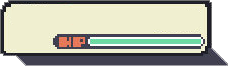
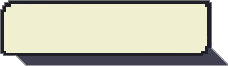
Se agrega barra de salud dinamica para Usuario

Changed region(s): [[0.2149, 0.5152, 0.9211, 0.7576], [0.7061, 0.4545, 0.7368, 0.4848]]

diff --git a/js/mainBattle.js b/js/mainBattle.js
@@ -18,6 +18,15 @@ const containerInfoEnemigo = document.getElementById('battle-container-infoEnemi
 const infoUsuario = document.createElement('img');
 infoUsuario.src = '../img/battleInfoUsuario.png';
 infoUsuario.classList.add('animate__animated', 'animate__fadeInRight');
+
+const vidaContainerUsuario = document.createElement('div');
+vidaContainerUsuario.classList.add('vidaContainerUsuario');
+const vidaUsuarioFilling = document.createElement('div');
+vidaContainerUsuario.appendChild(vidaUsuarioFilling);
+vidaUsuarioFilling.classList.add('vidaUsuarioFilling');
+
+//const vidaEnemigoContainer = document.createElement('div');
+
 const infoEnemigo = document.createElement('img');
 infoEnemigo.src = '../img/battleInfoEnemigo.png';
 infoEnemigo.classList.add('animate__animated', 'animate__fadeInLeft');
@@ -42,7 +51,31 @@ btnContinue.style.cursor = 'pointer';
 const pokemonVivos = () => salud > 0 && pokemon2.salud > 0;
 const poderAlAzar = (poke) => Math.floor(Math.random()*poke.poderes.length);
 
+class barraVidaUsuario {
+    constructor (elemento, valorInicial) {
+        this.fillElemento = elemento.querySelector('.vidaUsuarioFilling');
 
+        this.setValor(valorInicial);   
+        }
+        setValor(nuevoValor) {
+            if (nuevoValor < 0) {
+                nuevoValor = 0;
+            } else if (nuevoValor > 100) {
+                nuevoValor = 100;
+            }
+
+            this.valor = nuevoValor;
+            this.actualizar();
+        }
+
+        actualizar() {
+            const porcentaje = this.valor + '%';
+            this.fillElemento.style.width = porcentaje;
+        }
+}
+
+
+const vidaUsuario = new barraVidaUsuario(vidaContainerUsuario, salud);
 
 start();
 
@@ -82,8 +115,10 @@ function showPokemon() {
                 battleContainer.appendChild(frontPokemon2);
             }
             showFront2();
+
             containerInfoUsuario.appendChild(infoUsuario);
             containerInfoUsuario.appendChild(nombrePokemon1);
+            containerInfoUsuario.appendChild(vidaContainerUsuario);
             containerInfoEnemigo.appendChild(infoEnemigo);
             containerInfoEnemigo.appendChild(nombrePokemon2);
             clearTextBox();
@@ -130,6 +165,7 @@ function enemigoAtaca() {
     btnContinue.onclick = () => {
         salud -= totalDamage2;
         salud = salud > 0 ? salud : 0;
+        vidaUsuario.setValor(salud)
         f1 *= poder2.efectoEnAtaqueEnemigo;
         pokemon2.defensa *= poder2.efectoEnDefensaPropia;
         poderes[poderAlAzar(pokemon1)].probabilidadExito *= poder2.efectoEnExitoEnemigo;

diff --git a/css/style.css b/css/style.css
@@ -278,6 +278,24 @@ form {
           left: 1.5rem;
           top: 0.3rem;
           letter-spacing: 0; }
+        #container #main-container3 .battle-container #battle-container-infoUsuario .vidaContainerUsuario {
+          background-color: #020202;
+          border-radius: 5rem;
+          height: 0.6rem;
+          width: 8rem;
+          position: absolute;
+          left: 3rem;
+          top: 1.9rem;
+          display: flex;
+          justify-content: flex-start;
+          align-items: center; }
+          #container #main-container3 .battle-container #battle-container-infoUsuario .vidaContainerUsuario .vidaUsuarioFilling {
+            background-color: #34cf2e;
+            border-radius: 5rem;
+            height: 0.4rem;
+            width: 100%;
+            transition: width 0.5s;
+            margin: auto 0.1rem; }
       #container #main-container3 .battle-container #battle-pokeballs-usuario {
         grid-column: 10/13;
         grid-row: 7/10;

diff --git a/scss/style.scss b/scss/style.scss
@@ -366,6 +366,28 @@ form{
                     top: 0.3rem;
                     letter-spacing: 0;
                 }
+
+                .vidaContainerUsuario{
+                    background-color: #020202;
+                    border-radius: 5rem;
+                    height: 0.6rem;
+                    width: 8rem;
+                    position: absolute;
+                    left: 3rem;
+                    top: 1.9rem;
+                    display: flex;
+                    justify-content: flex-start;
+                    align-items: center;
+
+                    .vidaUsuarioFilling{
+                        background-color: #34cf2e;
+                        border-radius: 5rem;
+                        height: 0.4rem;
+                        width: 100%;
+                        transition: width 0.5s;
+                        margin: auto 0.1rem;
+                    }
+                }
             }
 
             #battle-pokeballs-usuario{

diff --git a/js/choose.js b/js/choose.js
@@ -59,8 +59,6 @@ class Pokemon{
         this.poderes = poderes;     //Esto sera el array de poderes.
         this.entrenador = entrenador;
         this.source = `../img/choose${this.nombre}.gif`;
-        this.front = `../img/front${this.nombre}.png`;
-        this.back = `../img/back${this.nombre}.png`;
     }
 }
 
